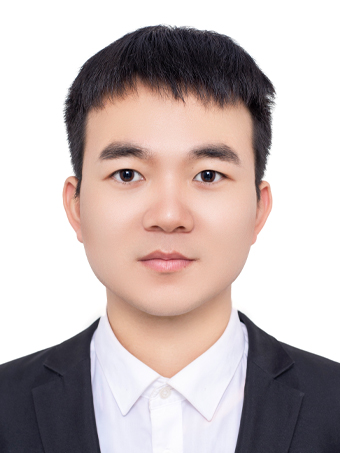
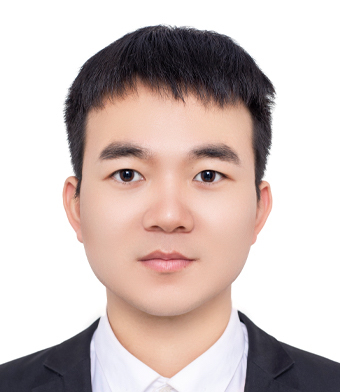
Updating website

diff --git a/people/index.html b/people/index.html
@@ -636,26 +636,29 @@
   
 
   
-
+    
+    
   
 
-  
-  
-
-  
-  
   
 
   
   
+
   
   
   
 
   
   
+  
+  
+  
 
-  <section id="people_1_Faculty" class="home-section wg-people   "  >
+  
+  
+
+  <section id="people_1_Faculty" class="home-section wg-people   " style="padding: 30px 0 30px 0;" >
     <div class="container">
       
 
@@ -890,7 +893,7 @@
     
     
       
-      <a href="/author/liangcai-xu/"><img class="avatar avatar-circle" src="/author/liangcai-xu/avatar_hu2e38300162e94de2c40725adbb8fada7_89016_270x270_fill_q90_lanczos_center.jpg" alt="Avatar"></a>
+      <a href="/author/liangcai-xu/"><img class="avatar avatar-circle" src="/author/liangcai-xu/avatar_hu2ea84e0a7e5a25f587aa28b52376dd8c_72118_270x270_fill_q90_lanczos_center.jpg" alt="Avatar"></a>
     
 
     <div class="portrait-title">

diff --git a/author/liangcai-xu/index.html b/author/liangcai-xu/index.html
@@ -575,7 +575,7 @@
 
       
       
-      <img class="avatar avatar-circle" src="/author/liangcai-xu/avatar_hu2e38300162e94de2c40725adbb8fada7_89016_800x800_fill_q90_lanczos_center.jpg" alt="Liangcai Xu">
+      <img class="avatar avatar-circle" src="/author/liangcai-xu/avatar_hu2ea84e0a7e5a25f587aa28b52376dd8c_72118_800x800_fill_q90_lanczos_center.jpg" alt="Liangcai Xu">
       
 
       <div class="portrait-title">
